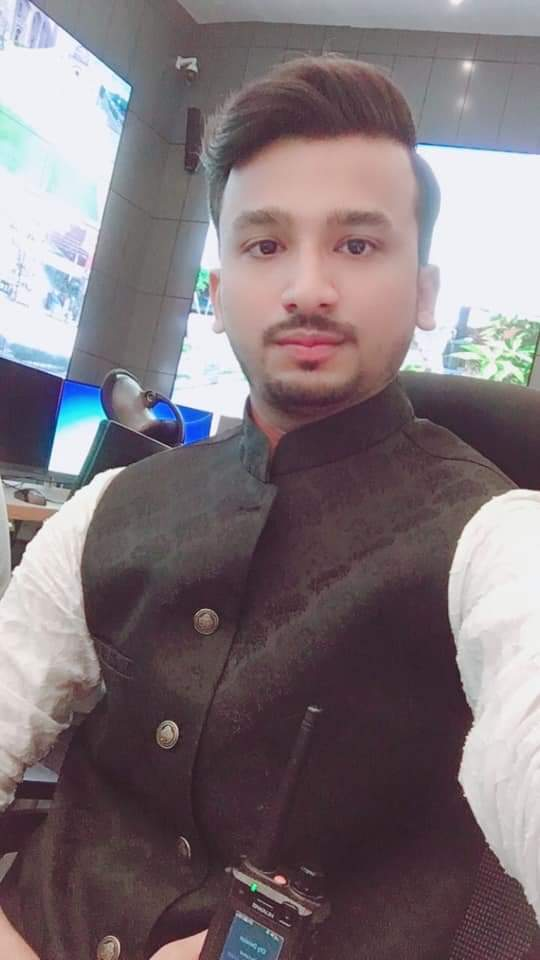
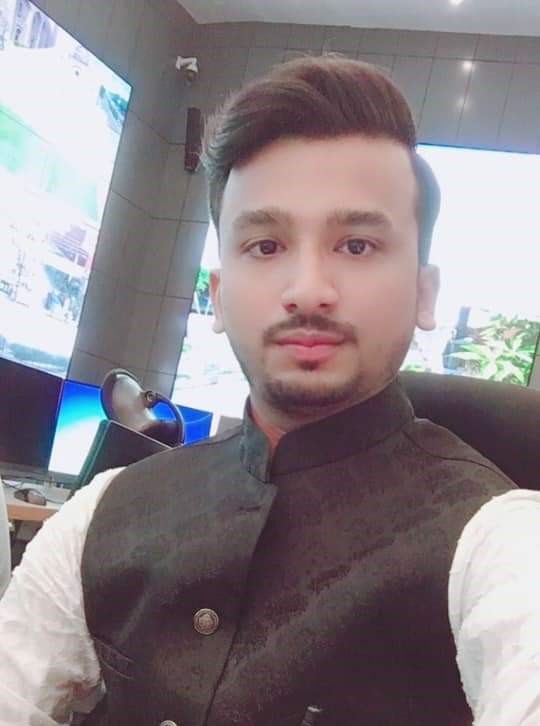
content: update home page hero text and description

diff --git a/app/page.tsx b/app/page.tsx
@@ -211,17 +211,18 @@ export default function HomePage() {
             transition={{ duration: 0.5, delay: 0.1 }}
             className="text-5xl md:text-7xl font-extrabold tracking-tight leading-[1.08] mb-8"
           >
-            <span className="text-white block">Infinity Solutions</span>
-            <span className="text-blue-gradient">Transforming Ideas Into Infinite Possibilities</span>
+            <span className="text-blue-400 text-xs tracking-[0.3em] font-semibold uppercase mb-4 block">Infinity Solutions</span>
+            <span className="text-white block">Turning Vision Into</span>
+            <span className="text-blue-gradient">Powerful Digital Experiences</span>
           </motion.h1>
 
           <motion.p
             initial={{ opacity: 0, y: 20 }}
             animate={{ opacity: 1, y: 0 }}
             transition={{ duration: 0.5, delay: 0.3 }}
-            className="max-w-2xl mx-auto text-slate-400 text-lg md:text-xl leading-relaxed mb-12"
+            className="max-w-3xl mx-auto text-slate-400 text-lg md:text-xl leading-relaxed mb-12"
           >
-            Full stack development company dedicated to creating powerful, scalable, and future-ready digital solutions with 24/7 worldwide support
+            We create high performance web and mobile applications, SaaS platforms, and AI powered solutions tailored for startups, businesses, and growing brands worldwide
           </motion.p>
 
           <motion.div
